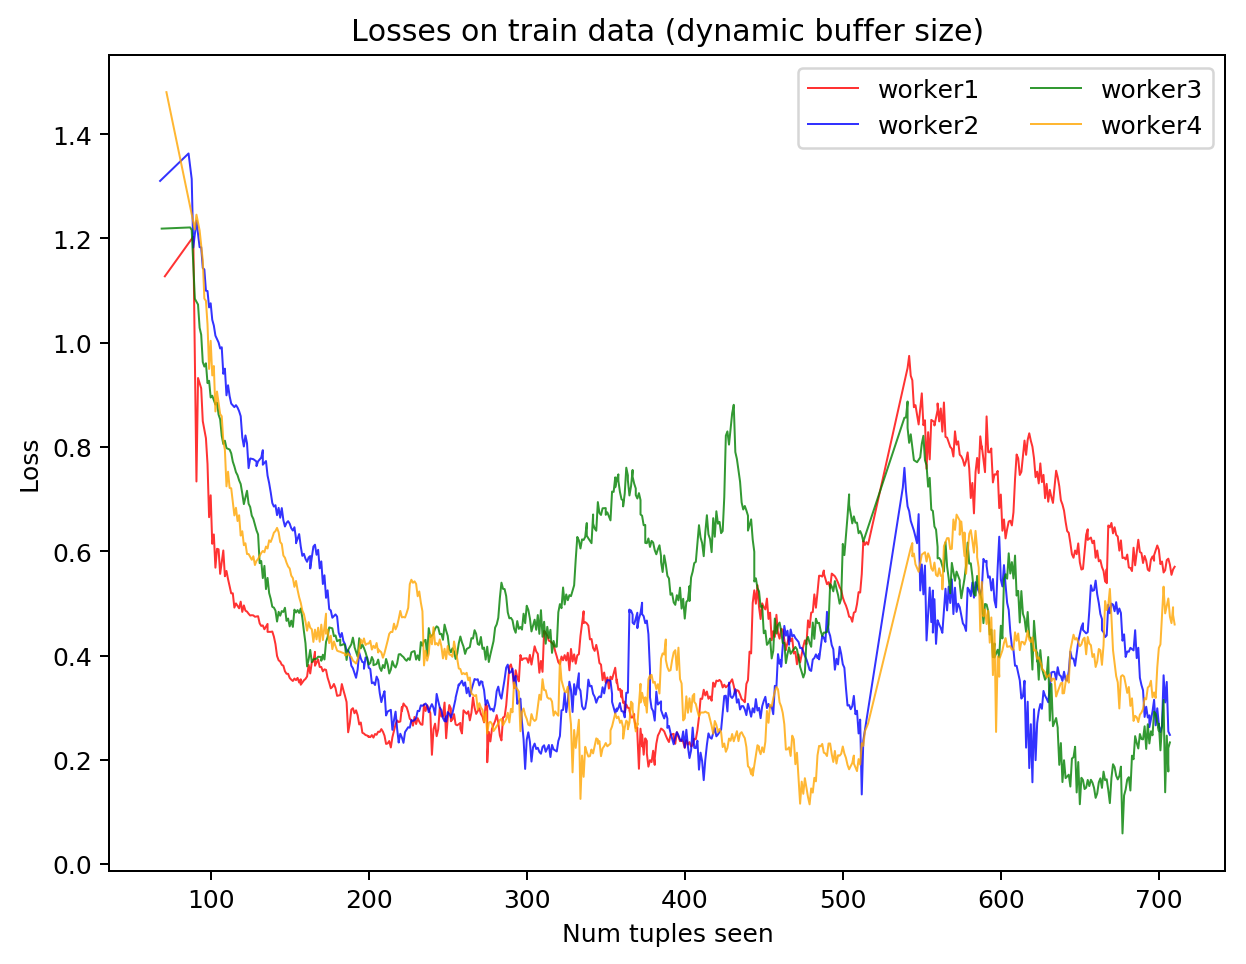
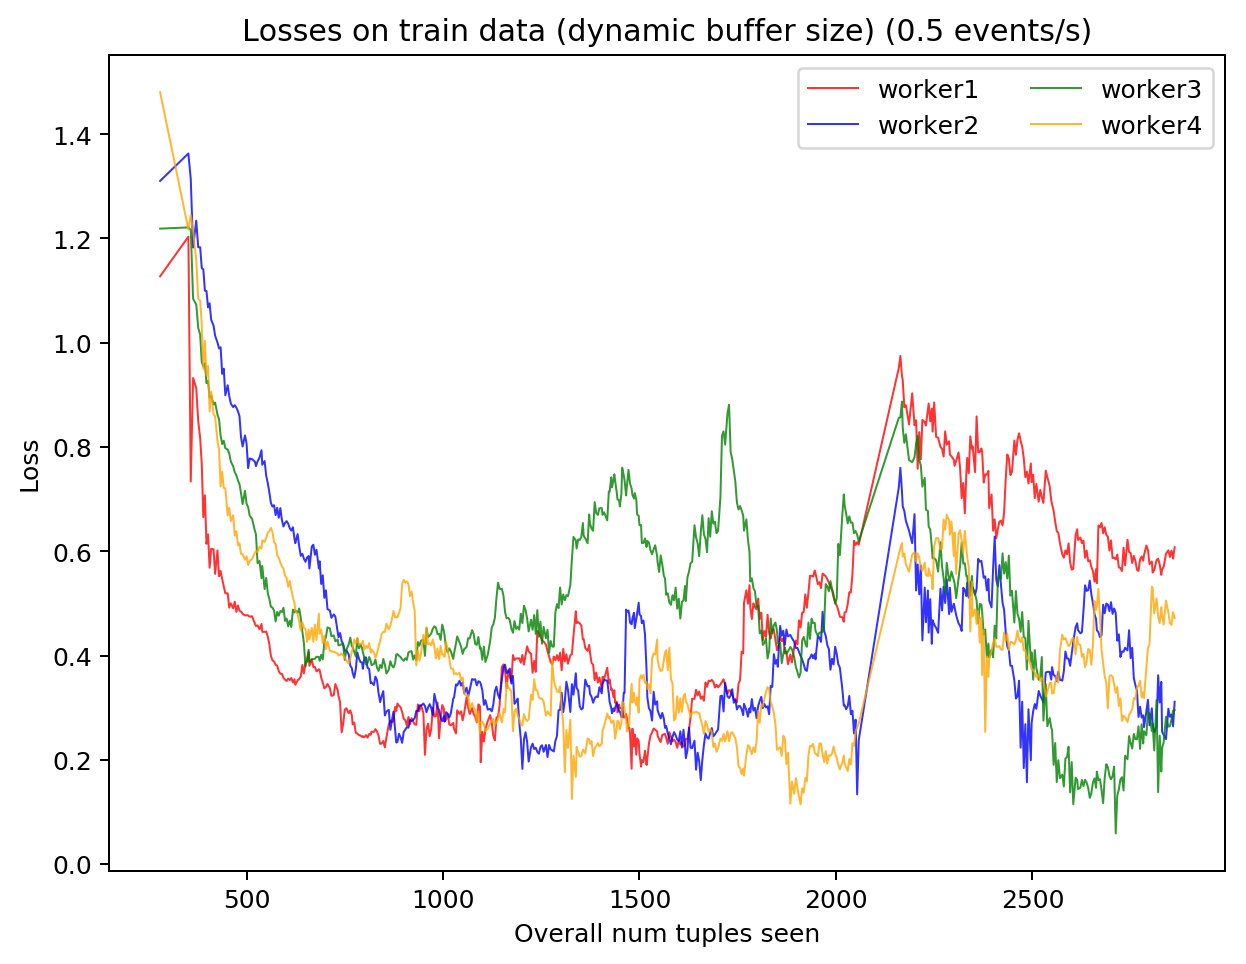
[Docs] complete event frequency evaluation

diff --git a/README.md b/README.md
@@ -221,12 +221,17 @@ In order to evaluate the influence of the frequency our application received dat
 | parameter         | value | description                                                               |
 |-------------------|-------|---------------------------------------------------------------------------|
 | numWorkers        | 4     | The number of workers (i.e. partitions) the application was executed with |
-| events per second | 0.5/2.5/5/10| Event frequency each worker receives tuples with from the CSVProcuder      |
+| events per second | 0.5/ 2.5/ 5/ 10| Event frequency each worker receives tuples with from the CSVProcuder      |
 
-When we compare the F1 score of the trained model with respect to the event frequency we can clearly see that we can see a positive correlation between the per second received and the f1 score on the test dataset.
+When we compare the F1 score of the trained model with respect to the event frequency we can clearly see a positive correlation between the events received per second and the f1 score on the test dataset.
 But compared to our first prototypes we were able to clearly minimize the influence of that parameter.
-We explain this influence on the performance with the danger of overfitting on the training dataset when tuples the model trains on exchange too slowly.
+Please see a plot comparing the f1 scores over the aggregated number of tuples seen by the workers.
 ![Comparison of F1 Score across different Event Frequencies](docs/plots/worker-comparison_event-frequency_f1.png)
+
+We explain the influence of the event frequency on the model's performance with the danger of overfitting on the training dataset when tuples the model trains on are exchanged too slowly in the `INPUT_DATA_BUFFER`.
+This gets clear when looking at the plots below.
+The higher the event frequency the higher the losses on the training data which is an effect of the fact that the model is not able to completely fit its parameters on the training data.
+![Comparison of Loss across different Event Frequencies](docs/plots/worker-comparison_event-frequency_loss.png)
 
 
 
